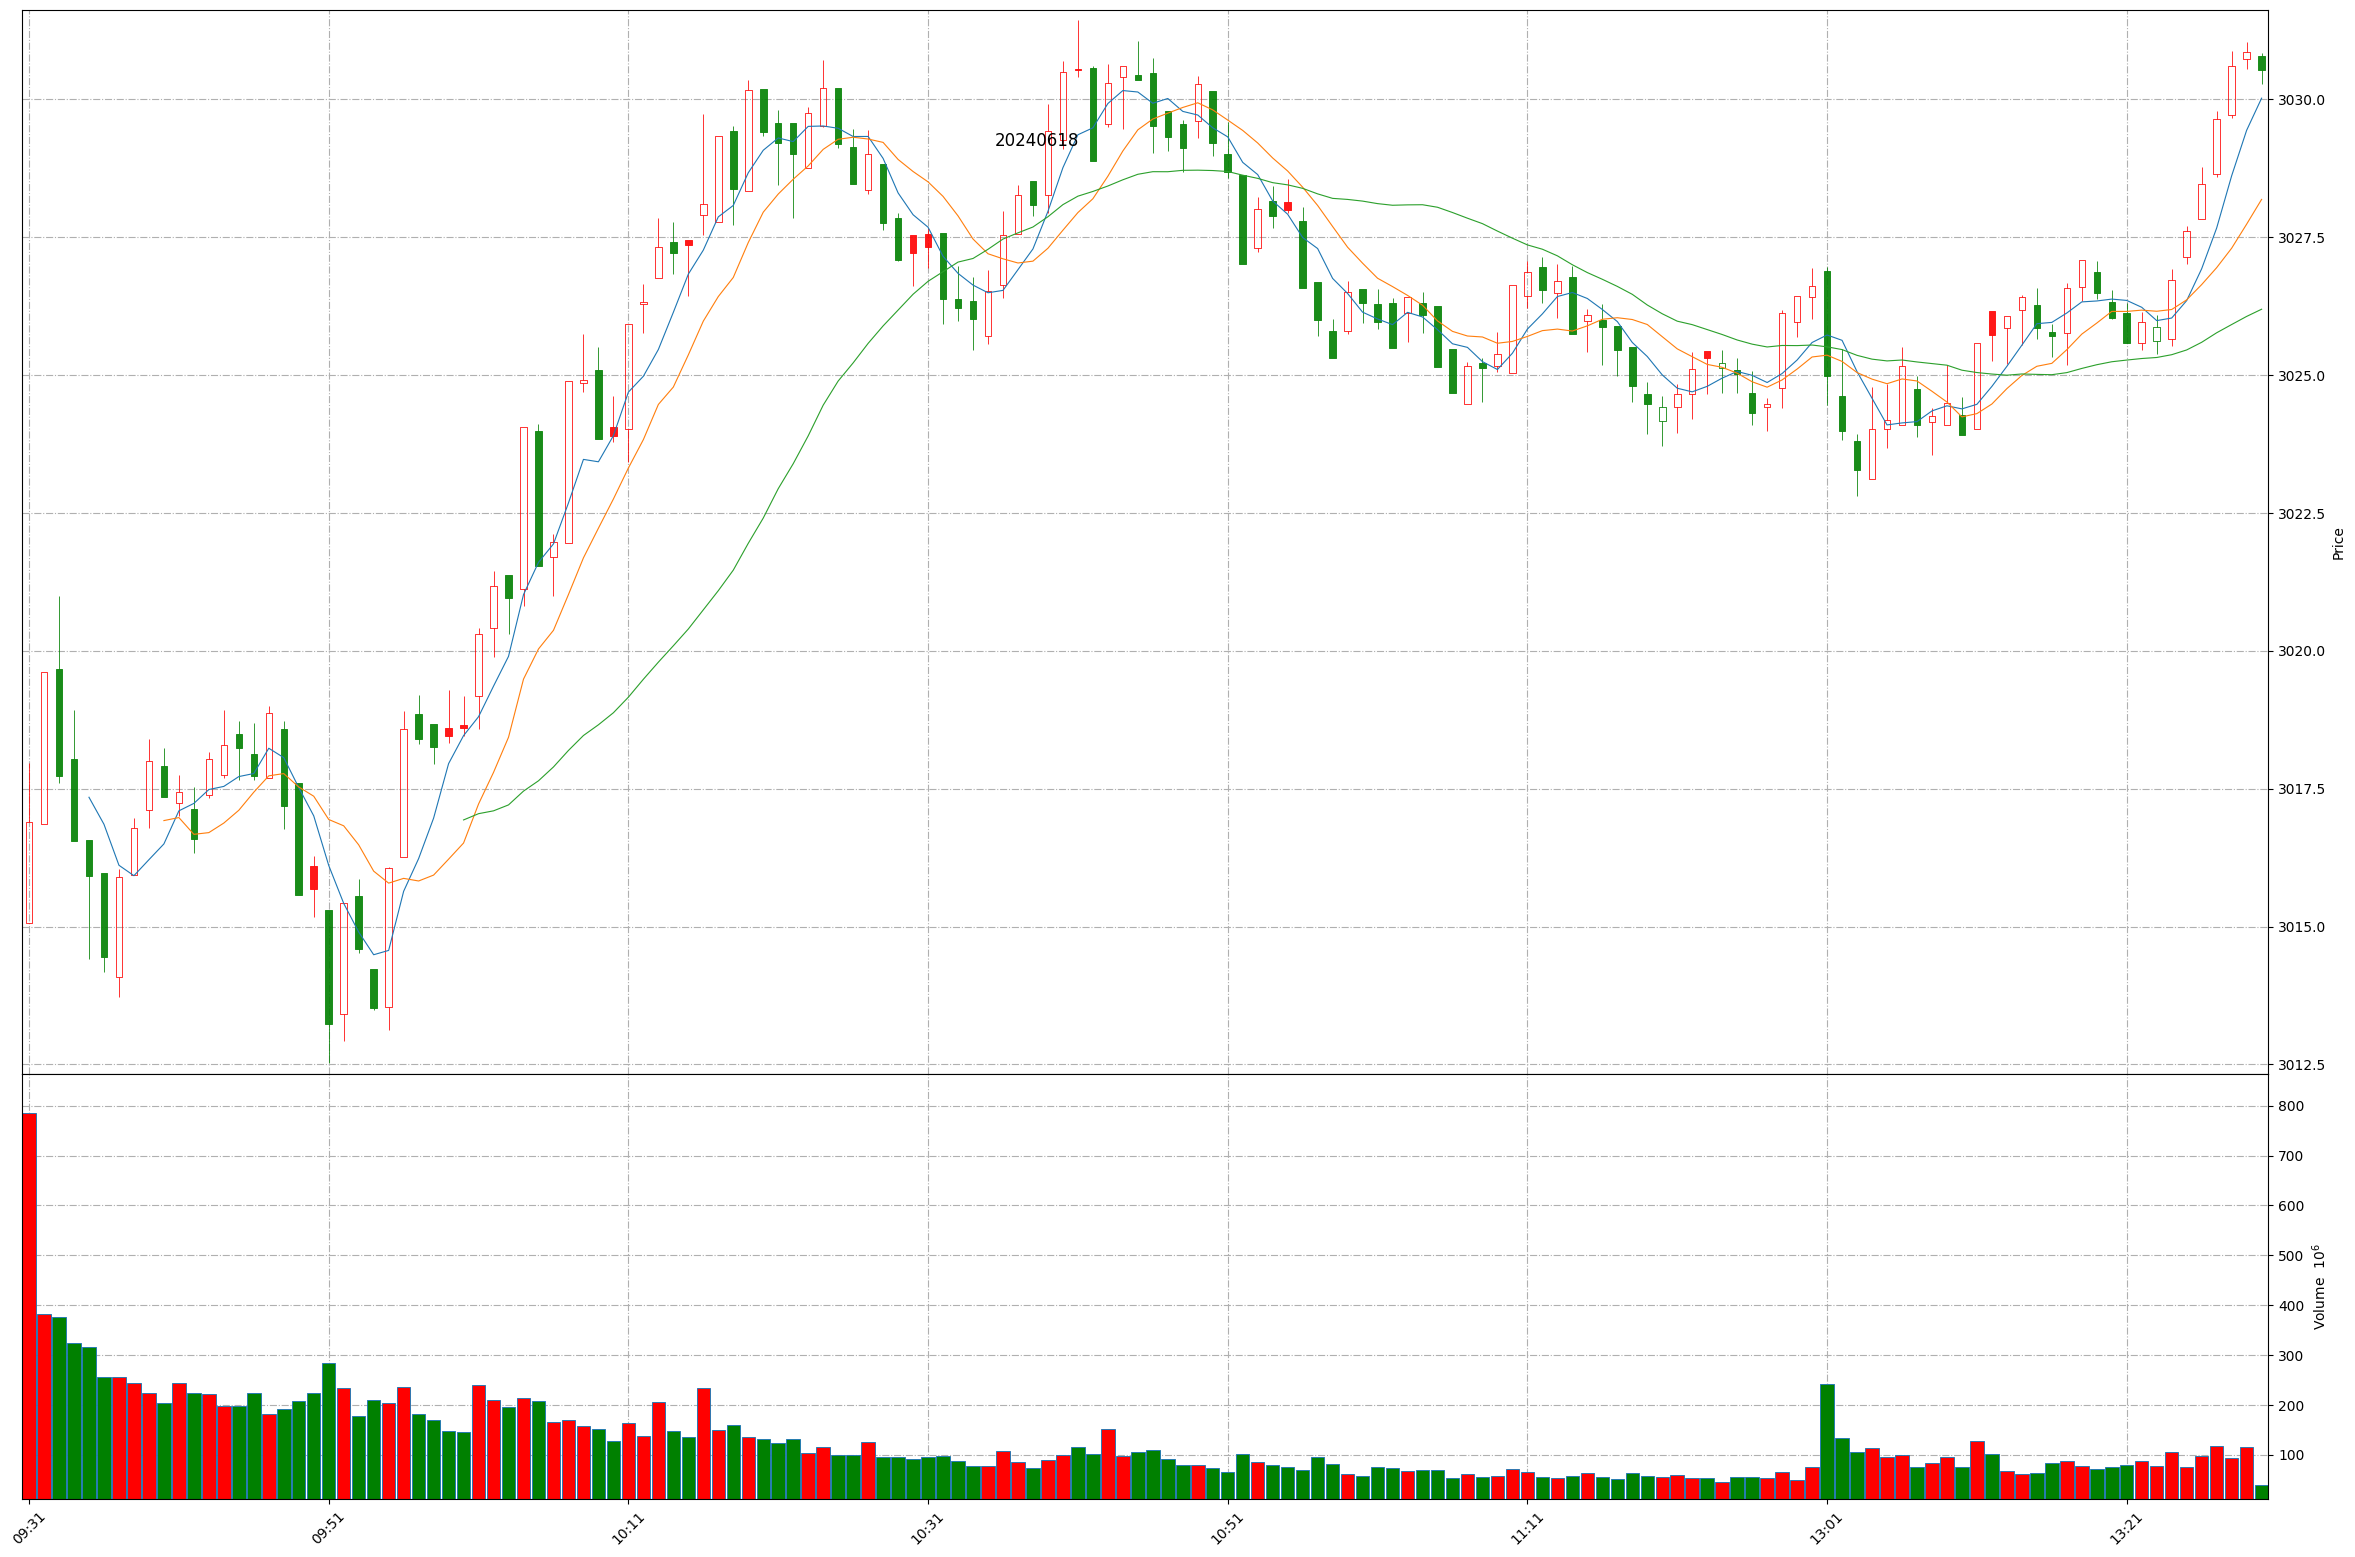
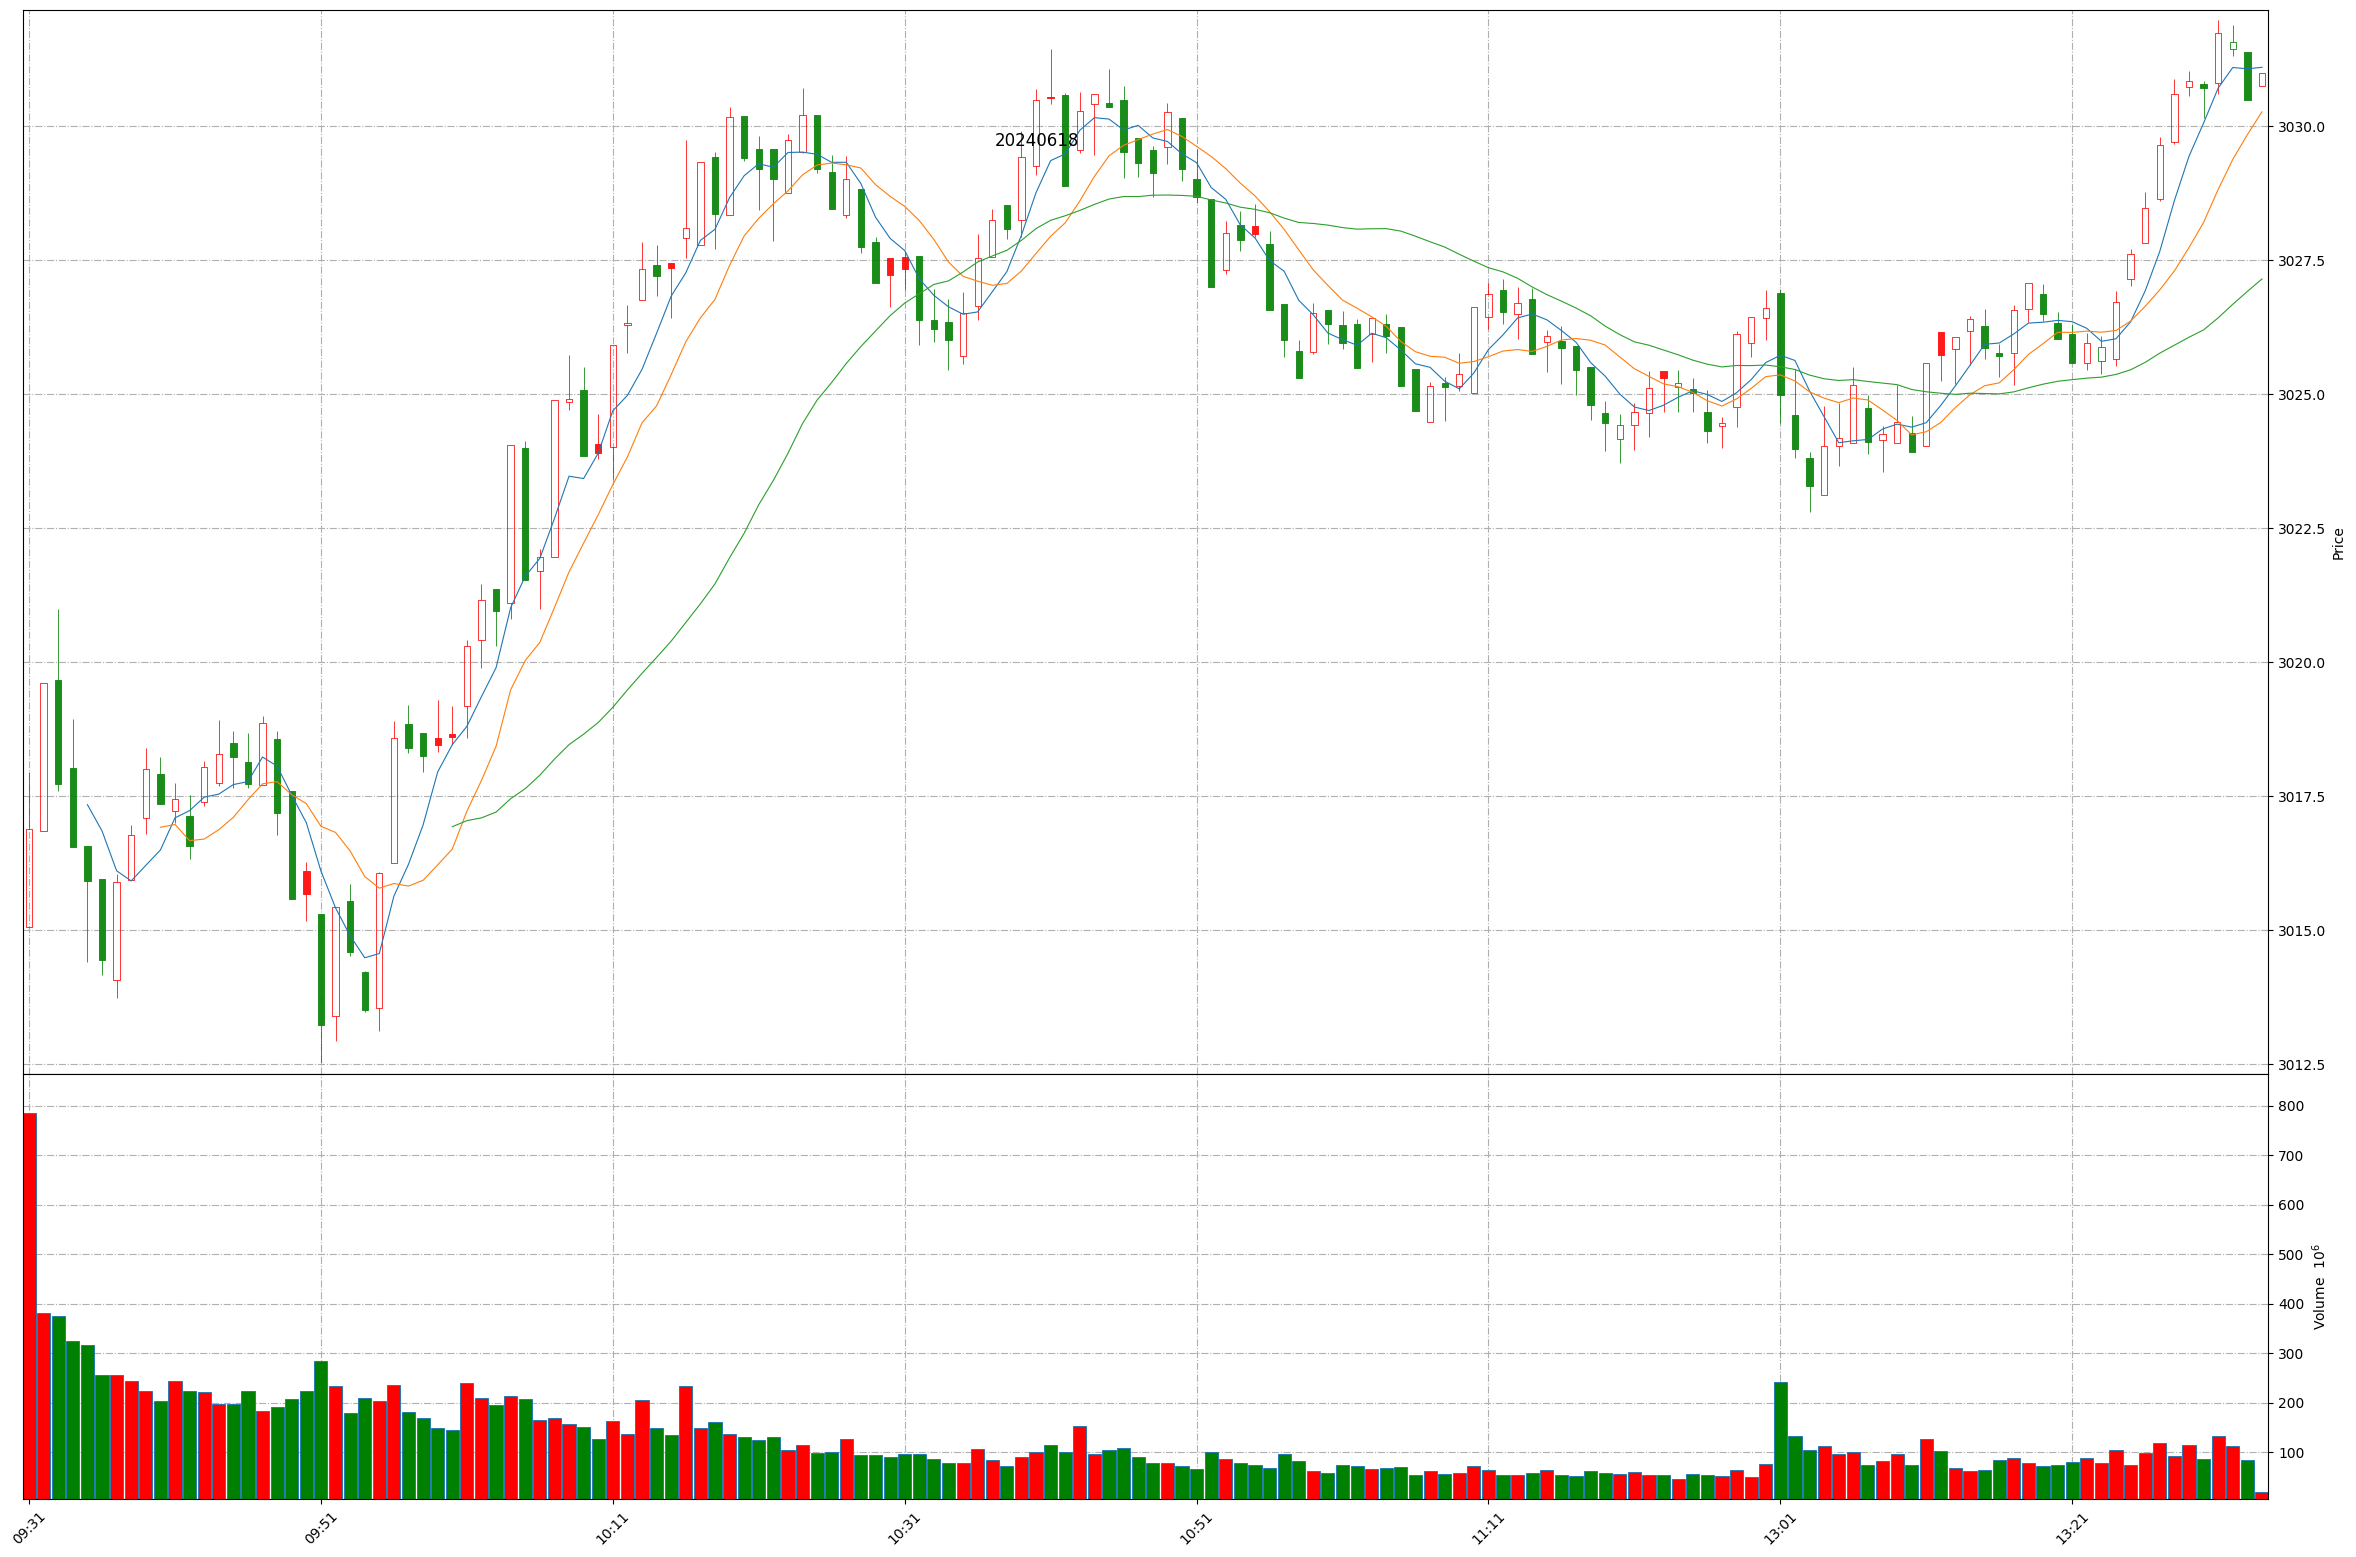
Github action update at 2024-06-18 13:33:36.

diff --git a/README.md b/README.md
@@ -1,11 +1,11 @@
 
 # Daily-A-share-market-quotes 每日 A 股指数（5min 更新）- 20240618
 
-### 上证指数 20240618 13:29
+### 上证指数 20240618 13:33
 ![](./fig/2024/6/20240618-sh000001.png)
 
-### 深证成指 20240618 13:29
+### 深证成指 20240618 13:33
 ![](./fig/2024/6/20240618-sz399001.png)
 
-### 北证50 20240618 13:29
+### 北证50 20240618 13:33
 ![](./fig/2024/6/20240618-bj899050.png)
